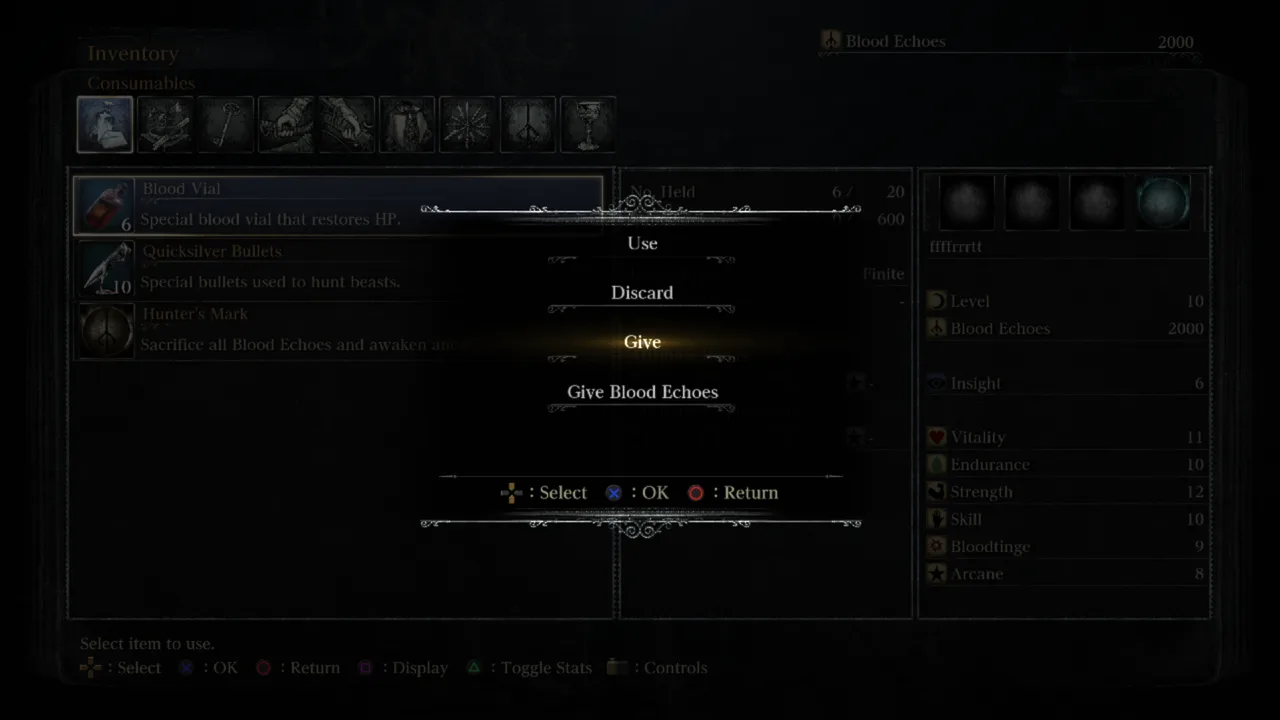
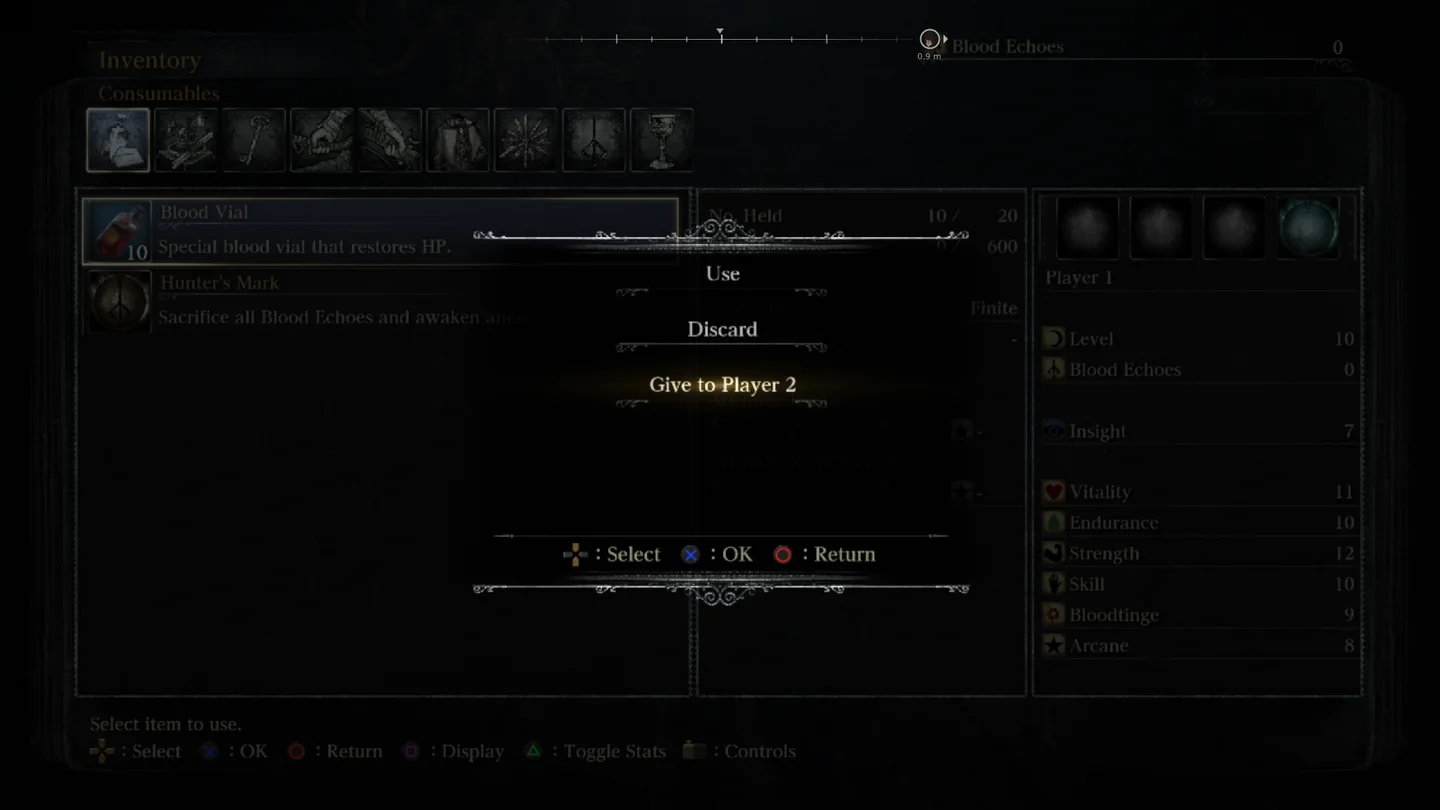
Website: in-game party list, going down, giving and wipe screenshots
The party list now shows vials and bullets, Going down shows the YOU ARE DOWN screen, the revive
ring and the red ring the others see, plus the wipe at the lamp, and Giving items walks
through inventory, Give to, quantity, the offer and the received box. Shots come from visible
rig games through make_shots.py, which paints over the rig's FPS counter.

Claude-Session: https://claude.ai/code/session_01NSpxeaNqMVRju62Yr6wP8m

diff --git a/website/src/content/docs.ts b/website/src/content/docs.ts
@@ -943,15 +943,15 @@ const play: DocPage = {
       blocks: [
         {
           type: "p",
-          text: "Your teammates are listed on the left, under your own bars: a portrait, the name and the health bar. It reads **Down** with the revive progress, **Dead**, or **elsewhere** when they are on another map.",
+          text: "Your teammates are listed on the left, under your own bars, in the game's own HUD style: a round portrait, the name, how many **Blood Vials** and **Quicksilver Bullets** they carry, and their health bar. It reads **Down** with the revive progress, **Dead**, or **elsewhere** when they are on another map.",
         },
         {
           type: "image",
-          src: "/docs/party-alive.webp",
-          alt: "A teammate in the party list: a round framed portrait, the name Player 2 and a health bar.",
-          caption: "A teammate on your map.",
-          width: 1040,
-          height: 340,
+          src: S("party-alive"),
+          alt: "In the clinic: the party list on the left shows Player 2 and Player 3, each with a round portrait, 6 Blood Vials, 0 bullets and a health bar.",
+          caption: "Two teammates in the party list, with their vials and bullets.",
+          width: 1440,
+          height: 810,
         },
       ],
     },
@@ -962,15 +962,36 @@ const play: DocPage = {
       blocks: [
         {
           type: "p",
-          text: "While a teammate stands on your map, a killing blow puts you down instead of killing you. The screen edge turns red and reads **You are down**.",
+          text: "While a teammate stands on your map, a killing blow puts you down instead of killing you. The screen turns red and **YOU ARE DOWN** rises in gold letters. A ring in the middle fills as your teammates strike you back up.",
         },
         {
-          type: "image",
-          src: "/docs/party-downed.webp",
-          alt: "The same teammate shown as downed: an empty health bar and a red blood-drop badge on the portrait.",
-          caption: "How the others see you while you are down.",
-          width: 1040,
-          height: 340,
+          type: "gallery",
+          items: [
+            {
+              label: "You are down",
+              src: S("you-are-down"),
+              width: 1440,
+              height: 810,
+              alt: "The downed player's screen: red, with YOU ARE DOWN in large gold letters, an empty revive ring and Hold to give up.",
+              caption: "The moment you go down.",
+            },
+            {
+              label: "Being revived",
+              src: S("you-are-down-revive"),
+              width: 1440,
+              height: 810,
+              alt: "The same red screen with the revive ring at 53 percent while Player 3 stands over you.",
+              caption: "A teammate strikes you; the ring shows how close you are.",
+            },
+            {
+              label: "Seen by the others",
+              src: S("party-downed"),
+              width: 1440,
+              height: 810,
+              alt: "Player 1's view: Player 2 in the party list with a red ring around the portrait while Player 3 stands nearby.",
+              caption: "The others see a red ring on your portrait.",
+            },
+          ],
         },
         {
           type: "terms",
@@ -982,8 +1003,29 @@ const play: DocPage = {
             ["Giving up", "Hold the dodge button for three seconds to die at once."],
             [
               "A wipe",
-              "When everyone on a map is down, the party dies and wakes at its lamps. The map resets as it would after a death, but the team's kills stay.",
+              "When everyone on a map is down, the party dies and wakes at the host's lamp. The map resets as it would after a death, but the team's kills stay, and your Blood Echoes wait where you fell.",
             ],
+          ],
+        },
+        {
+          type: "gallery",
+          items: [
+            {
+              label: "At the lamp",
+              src: S("wipe-lamp"),
+              width: 1440,
+              height: 810,
+              alt: "Player 1 and Player 2 standing together at the lamp in the clinic after a party wipe.",
+              caption: "After a wipe: the whole party wakes at the lamp.",
+            },
+            {
+              label: "Your echoes",
+              src: S("wipe-bloodstain"),
+              width: 1440,
+              height: 810,
+              alt: "Back at the lamp with the prompt Acquire Blood Echoes over a bloodstain.",
+              caption: "Your echoes stay where you fell until you pick them up.",
+            },
           ],
         },
       ],
@@ -998,20 +1040,49 @@ const play: DocPage = {
           text: "In the inventory, an item's menu lists **Give to** for each teammate nearby, and **Give Blood Echoes to** for echoes. Pick how many; the teammate accepts in the game's own dialog. Weapons go one at a time.",
         },
         {
-          type: "image",
-          src: "/docs/give-menu.webp",
-          alt: "The inventory with an item's menu open: Use, Discard, Give and Give Blood Echoes.",
-          caption: "Giving from the inventory.",
-          width: 1280,
-          height: 720,
-        },
-        {
-          type: "image",
-          src: "/docs/give-items.webp",
-          alt: "In game, a guest receives four Blood Vials from the host, shown in the game's own item dialog, with the host's name and health above their head.",
-          caption: "Four Blood Vials arriving from the host.",
-          width: 1280,
-          height: 720,
+          type: "gallery",
+          items: [
+            {
+              label: "Inventory",
+              src: S("give-inventory"),
+              width: 1440,
+              height: 810,
+              alt: "The inventory with Blood Vial selected: 10 held.",
+              caption: "Pick an item in the inventory.",
+            },
+            {
+              label: "Give to",
+              src: S("give-menu"),
+              width: 1440,
+              height: 810,
+              alt: "The item's menu: Use, Discard and Give to Player 2.",
+              caption: "Give to lists each teammate nearby.",
+            },
+            {
+              label: "How many",
+              src: S("give-quantity"),
+              width: 1440,
+              height: 810,
+              alt: "Select quantity of Blood Vials to give to Player 2: 2, Yes or No.",
+              caption: "Choose how many.",
+            },
+            {
+              label: "The offer",
+              src: S("give-offer"),
+              width: 1440,
+              height: 810,
+              alt: "On Player 2's screen: Player 1 offers you 2 Blood Vials. Accept? Yes or No.",
+              caption: "The teammate accepts, or not.",
+            },
+            {
+              label: "Received",
+              src: S("give-received"),
+              width: 1440,
+              height: 810,
+              alt: "Player 2 receives Blood Vial times 2 in the game's own item box, with Player 1 standing beside.",
+              caption: "They arrive in the game's own item box.",
+            },
+          ],
         },
       ],
     },

diff --git a/website/src/app/page.tsx b/website/src/app/page.tsx
@@ -69,32 +69,32 @@ const features: {
   {
     title: "Your teammates on screen",
     icon: "tricorn",
-    text: "Each teammate sits on the left under your own bars, with a portrait, their name and their health. When they are on another map the list says so.",
+    text: "Each teammate sits on the left under your own bars: a portrait, their name, their Blood Vials and bullets, and their health. When they are on another map the list says so.",
     href: "/docs/play#party",
     src: "/docs/party-alive.webp",
-    width: 1040,
-    height: 340,
-    alt: "A teammate in the party list: a round framed portrait, the name Player 2 and a health bar.",
+    width: 1440,
+    height: 810,
+    alt: "In the clinic, the party list shows Player 2 and Player 3 with portraits, vials, bullets and health bars.",
   },
   {
     title: "Down, not dead",
     icon: "hand",
-    text: "A killing blow puts you down while a teammate is on your map. They strike you to raise you; if everyone goes down, the party wakes at its lamps.",
+    text: "A killing blow puts you down while a teammate is on your map. They strike you to raise you; if everyone goes down, the party wakes at the host's lamp.",
     href: "/docs/play#down",
-    src: "/docs/party-downed.webp",
-    width: 1040,
-    height: 340,
-    alt: "The same teammate in the party list while down: a blood drop on the portrait and an empty bar.",
+    src: "/docs/you-are-down.webp",
+    width: 1440,
+    height: 810,
+    alt: "The downed player's red screen with YOU ARE DOWN in gold letters and Hold to give up.",
   },
   {
     title: "Hand things over",
     icon: "vial",
     text: "Give a teammate Blood Vials, weapons or Blood Echoes from the inventory. They accept in the game's own dialog.",
     href: "/docs/play#give",
-    src: "/docs/give-items.webp",
-    width: 1280,
-    height: 720,
-    alt: "A guest receives four Blood Vials from the host in the game's own item dialog.",
+    src: "/docs/give-offer.webp",
+    width: 1440,
+    height: 810,
+    alt: "On Player 2's screen: Player 1 offers you 2 Blood Vials. Accept?",
   },
   {
     title: "Your team, any time",

diff --git a/website/scripts/shots/make_shots.py b/website/scripts/shots/make_shots.py
@@ -1,6 +1,6 @@
 """Turns the rig's PNG captures into the guide's WebP screenshots in public/docs.
 
-Usage: python3 scripts/shots/make_shots.py <folder with the PNGs>
+Usage: python3 scripts/shots/make_shots.py <folder with the PNGs> [more folders...]
 
 Each entry: published name, source PNG, crop box (left, top, right, bottom) or None, and the
 published width (the height follows). Headless captures draw only the overlays on black, so
@@ -10,7 +10,8 @@ the menus are cropped to their panel.
 import sys
 from pathlib import Path
 
-from PIL import Image
+import numpy as np
+from PIL import Image, ImageFilter
 
 OUT = Path(__file__).resolve().parents[2] / "public" / "docs"
 
@@ -20,6 +21,8 @@ COOP_CARD = (270, 222, 1530, 950)
 INSERT = (360, 130, 1560, 950)
 COMPASS = (680, 28, 1290, 90)
 TOOLTIP = (420, 230, 1260, 445)
+# The FPS counter at the top right of visible rig games (1920x1080), painted over.
+FPS_BOX = (1570, 10, 1910, 48)
 
 SHOTS = [
     # setup wizard
@@ -71,13 +74,45 @@ SHOTS = [
     ("compass-behind", "game-compass-behind.png", COMPASS, 1220),
     ("compass-right", "game-compass-right.png", COMPASS, 1220),
     # the Insert menu's tabs
+    # visible games: the HUD
+    ("party-alive", "hud-party-alive.png", GAME, 1440),
+    ("party-downed", "hud-party-downed.png", GAME, 1440),
+    ("you-are-down", "hud-you-are-down.png", GAME, 1440),
+    ("you-are-down-revive", "hud-you-are-down-reviving.png", GAME, 1440),
+    ("give-inventory", "hud-give-1-inventory.png", GAME, 1440),
+    ("give-menu", "hud-give-2-menu.png", GAME, 1440),
+    ("give-quantity", "hud-give-3-quantity.png", GAME, 1440),
+    ("give-offer", "hud-give-4-offer-received.png", GAME, 1440),
+    ("give-received", "hud-give-5-received.png", GAME, 1440),
+    ("wipe-lamp", "hud-wipe-lamp.png", GAME, 1440),
+    ("wipe-bloodstain", "hud-wipe-lamp-bloodstain.png", GAME, 1440),
     *[(f"insert-{t}", f"game-insert-{t}.png", INSERT, 1200) for t in ("display", "upscaler", "effects", "controls", "advanced")],
 ]
 
 
-def main(src: Path) -> None:
+def hide_fps_counter(im: Image.Image) -> Image.Image:
+    """Fills the counter's box from the rows just above and below it, softened."""
+    a = np.asarray(im).astype(np.float32).copy()
+    l, t, r, b = FPS_BOX
+    top, bottom = a[t - 1, l:r].copy(), a[b, l:r].copy()
+    for y in range(t, b):
+        f = (y - t + 1) / (b - t + 1)
+        a[y, l:r] = top * (1 - f) + bottom * f
+    out = Image.fromarray(a.clip(0, 255).astype(np.uint8))
+    patch = out.crop((l - 8, t - 4, r + 8, b + 4)).filter(ImageFilter.GaussianBlur(3))
+    out.paste(patch.crop((8, 4, 8 + r - l, 4 + b - t)), (l, t))
+    return out
+
+
+def main(srcs: list[Path]) -> None:
     for name, file, box, width in SHOTS:
+        src = next((d for d in srcs if (d / file).exists()), None)
+        if src is None:
+            print(f"skipped {name}: no {file}")
+            continue
         im = Image.open(src / file).convert("RGB")
+        if file.startswith("hud-"):
+            im = hide_fps_counter(im)
         if box:
             im = im.crop(box)
         if im.width != width:
@@ -87,4 +122,4 @@ def main(src: Path) -> None:
 
 
 if __name__ == "__main__":
-    main(Path(sys.argv[1]))
+    main([Path(a) for a in sys.argv[1:]])
